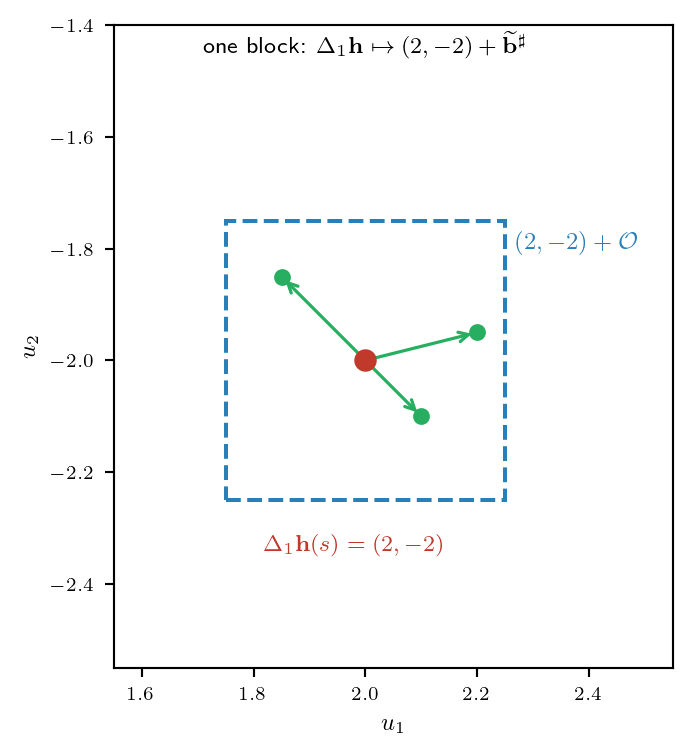
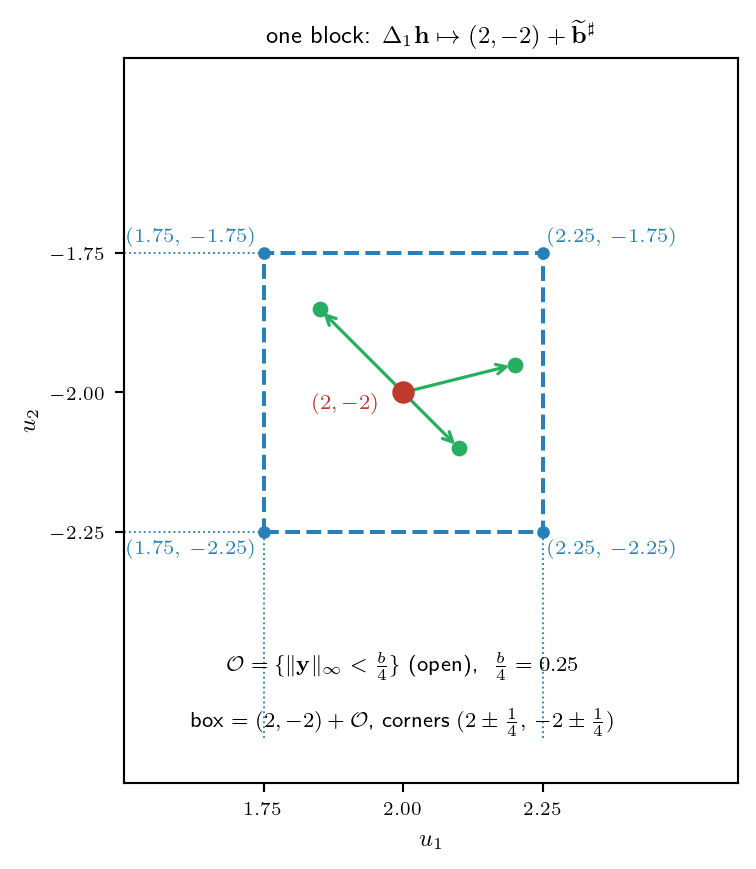
post(update): petite/K3 — M_0=4 못박기 + 한블록 그림에 꼭짓점·수식 명시
M_0=2C_{M²}/ε_F 숫자는 μ_0 필요하나 예제선 M_0=4(s가 들어가는 최소·경계),
L=⌈16·4+1⌉=65 정확. oneblock 그림: 네 꼭짓점 (2±1/4,-2±1/4), O 정의·값 라벨.

diff --git a/docs/Posts/260605_c4e5ad.html b/docs/Posts/260605_c4e5ad.html
@@ -235,7 +235,7 @@ window.Quarto = {
 <p><strong>(1) 높이차 <span class="math inline">\(\Delta_1\mathbf{h}\)</span></strong> — <span class="math inline">\(v_1\)</span>을 기준으로 뺀 anchored 높이차: <span class="math display">\[\Delta_1\mathbf{h}(s) = \bigl(h(v_2) - h(v_1),\ h(v_3) - h(v_1)\bigr) = (7-5,\ 3-5) = (2, -2).\]</span></p>
 <p><strong>(2) 현재 노드 <span class="math inline">\(X\)</span></strong> — walker가 지금 있는 노드 (예: <span class="math inline">\(v_1\)</span>).</p>
 <p>→ 우리 예제의 상태는 <span class="math inline">\(s = \bigl((2,-2),\ v_1\bigr)\)</span>이다. (<span class="math inline">\(\Delta_1\mathbf{h}\)</span>가 절대높이 <span class="math inline">\(5,7,3\)</span>을 안 기억해도 되는 이유: 눈은 모든 노드에 똑같이 와 닿는 게 아니라 <strong>높이차</strong>만 동역학에 들어오기 때문. 높이를 통째로 <span class="math inline">\(+10\)</span> 해도 같은 상태.)</p>
-<div id="fafc6365" class="cell" data-execution_count="1">
+<div id="fc40f962" class="cell" data-execution_count="1">
 <div class="cell-output cell-output-display">
 <div>
 <figure class="figure">
@@ -254,7 +254,8 @@ window.Quarto = {
 </blockquote>
 <p><strong>먼저 <span class="math inline">\(s\)</span>가 어디의 원소인지</strong> 못박자. 라운드 스켈레톤의 상태공간은 <span class="math display">\[\bar{\mathcal{X}} \;=\; \mathbb{R}^{n-1} \times V \;=\; \mathbb{R}^2 \times \{v_1, v_2, v_3\},\]</span> 즉 상태는 <span class="math inline">\(s = (\Delta_1\mathbf{h},\ X)\)</span> — <strong>(높이차 벡터, 현재 노드)</strong> 쌍이다. 우리 예제에선 <span class="math display">\[s = \bigl((2,-2),\ v_1\bigr) \in \bar{\mathcal{X}}.\]</span></p>
 <p>후보 small set은 그 <span class="math inline">\(\bar{\mathcal{X}}\)</span> 안에서 <strong>높이차가 너무 벌어지지 않은 상태들의 부분집합</strong>: <span class="math display">\[C_0 \;:=\; \{\, s \in \bar{\mathcal{X}} : M(s) \leq M_0 \,\}, \qquad M(s) := (\text{최대 높이}) - (\text{최소 높이}).\]</span> 여기서 <span class="math inline">\(M\)</span>은 <strong><span class="math inline">\(\Delta_1\mathbf{h}\)</span> 좌표에만</strong> 의존한다 — 현재 노드 <span class="math inline">\(X\)</span>와 무관하고, 절대높이를 통째로 평행이동해도 안 변한다. 구체적으로 <span class="math inline">\(\Delta_1\mathbf{h}=(u_1,u_2)\)</span>이면 anchored 높이가 <span class="math inline">\((0, u_1, u_2)\)</span>라 <span class="math display">\[M(s) = \max(0, u_1, u_2) - \min(0, u_1, u_2).\]</span> 따라서 <span class="math inline">\(C_0\)</span>는 <span class="math inline">\(\bar{\mathcal{X}}\)</span>에서 “<span class="math inline">\(\Delta_1\mathbf{h}\)</span>가 어떤 띠(band) 안, 노드 <span class="math inline">\(X\)</span>는 자유”인 집합: <span class="math inline">\(C_0 = \{(u_1,u_2) : \max(0,u_1,u_2)-\min(0,u_1,u_2)\leq M_0\} \times V\)</span>.</p>
-<p>우리 예제: <span class="math inline">\(\Delta_1\mathbf{h}=(2,-2)\)</span>라 anchored 높이 <span class="math inline">\((0, 2, -2)\)</span>, <span class="math display">\[M(s) = \max(0,2,-2) - \min(0,2,-2) = 2 - (-2) = 4\]</span> (절대높이로 봐도 <span class="math inline">\(\max(5,7,3)-\min(5,7,3) = 7-3 = 4\)</span>, 같은 값). <span class="math inline">\(M_0\)</span>은 Foster 문턱 <span class="math inline">\(2C_{M^2}/\varepsilon_F\)</span>로 큰 상수라, 우리 <span class="math inline">\(s\)</span>는 <span class="math inline">\(M(s)=4 \leq M_0\)</span> — <strong><span class="math inline">\(s \in C_0\)</span>.</strong> 좋다, 출발점 확보.</p>
+<p>우리 예제: <span class="math inline">\(\Delta_1\mathbf{h}=(2,-2)\)</span>라 anchored 높이 <span class="math inline">\((0, 2, -2)\)</span>, <span class="math display">\[M(s) = \max(0,2,-2) - \min(0,2,-2) = 2 - (-2) = 4\]</span> (절대높이로 봐도 <span class="math inline">\(\max(5,7,3)-\min(5,7,3) = 7-3 = 4\)</span>, 같은 값).</p>
+<p><span class="math inline">\(M_0\)</span>의 정체는 Foster 문턱 <span class="math inline">\(M_0 = 2C_{M^2}/\varepsilon_F\)</span> (drift 보조정리에서 옴)인데, 그 <strong>숫자</strong>는 snowfall 분포 <span class="math inline">\(\boldsymbol{\mu}_0\)</span>와 drift 상수가 있어야 나온다. 구성은 <span class="math inline">\(M_0\)</span>이 <strong>어떤 고정 상수든</strong> 동일하게 작동하므로, 이 예제에선 구체적으로 <span class="math inline">\(M_0 = 4\)</span> (즉 <span class="math inline">\(C_0 = \{M \leq 4\}\)</span>)로 잡는다. 이는 우리 <span class="math inline">\(s\)</span> (range <span class="math inline">\(4\)</span>)가 <span class="math inline">\(C_0\)</span>에 들어가는 <strong>최소값</strong>이라 — <span class="math inline">\(s\)</span>는 <span class="math inline">\(C_0\)</span>의 <strong>경계</strong>(가장 불균형한 worst case)에 놓인다. 그래서 falls가 높이차를 가장 크게 끌어내려야 하는 대표 케이스고, 출발점으로 딱 좋다. <span class="math inline">\(M(s)=4 \leq 4\)</span> → <strong><span class="math inline">\(s \in C_0\)</span>.</strong></p>
 <hr>
 </section>
 <section id="겨냥-영역-셋-mathcalo-supset-mathcalodagger-supset-u" class="level2">
@@ -277,20 +278,20 @@ window.Quarto = {
 <li><span class="math inline">\(b^{\sharp} = (0.5,\ 0.9,\ 0.3)\)</span> → 증분 <span class="math inline">\((0.4,\ -0.2)\)</span>. 첫 성분 <span class="math inline">\(0.4 &gt; \tfrac14\)</span> 라 <span class="math inline">\(\mathcal{O}\)</span> <strong>밖</strong> — 가능은 하지만 밀도 보장 안 됨.</li>
 </ul>
 <p>왜 <span class="math inline">\(\mathcal{O}\)</span> 위에서만 밀도 <span class="math inline">\(\geq b^{1-n}/2 = \tfrac12\)</span>인가 (pushforward 보조정리): 증분 밀도는 <span class="math inline">\(b^{\sharp}_1\)</span>을 적분해 없앤 것인데, 모든 <span class="math inline">\(|b^{\sharp}_i - b^{\sharp}_1| &lt; b/4\)</span>일 때 적분 구간이 길이 <span class="math inline">\(\geq b/2\)</span>를 품어 밀도가 <span class="math inline">\(\geq b^{1-n}/2\)</span>로 떨어진다 (<span class="math inline">\(b{=}1, n{=}3\)</span>이라 <span class="math inline">\(\tfrac12\)</span>). 그 조건이 정확히 <span class="math inline">\(\widetilde{\mathbf{b}}^{\sharp} \in \mathcal{O}\)</span>.</p>
-<div id="1a9d839e" class="cell" data-execution_count="2">
+<div id="a5261335" class="cell" data-execution_count="2">
 <div class="cell-output cell-output-display">
 <div>
 <figure class="figure">
-<p><img src="260605_유진_HST_petite_smallset_K3_files/figure-html/cell-3-output-1.png" width="346" height="377" class="figure-img"></p>
+<p><img src="260605_유진_HST_petite_smallset_K3_files/figure-html/cell-3-output-1.png" width="378" height="435" class="figure-img"></p>
 </figure>
 </div>
 </div>
 </div>
 <p>한 블록은 <span class="math inline">\(\Delta_1\mathbf{h}\)</span>를 <span class="math inline">\(\mathcal{O}\)</span>만큼(최대 한 좌표 <span class="math inline">\(\pm\tfrac14\)</span>) 살짝 민다. 이 증분이 <span class="math inline">\(L=65\)</span>블록 누적되면 (Minkowski 합 <span class="math inline">\(L\cdot\mathcal{O}\)</span>, 최대 <span class="math inline">\(\pm 16.25\)</span>) <span class="math inline">\((2,-2)\)</span>를 원점의 <span class="math inline">\(U\)</span>까지 끌어내릴 수 있다.</p>
-<p><strong>② <span class="math inline">\(L\cdot\mathcal{O}\)</span> — <span class="math inline">\(L\)</span>블록이 도달하는 영역 (Minkowski 합).</strong> <span class="math display">\[L := \Bigl\lceil \tfrac{16M_0}{b} + 1 \Bigr\rceil.\]</span> 우리 예제는 <span class="math inline">\(M(s)=4 \leq M_0\)</span>이라 <span class="math inline">\(M_0 \geq 4\)</span>, 따라서 <span class="math inline">\(L \geq \lceil 65 \rceil = 65\)</span>. 그러면 <span class="math inline">\(L\cdot\mathcal{O} = (-\tfrac{L}{4}, \tfrac{L}{4})^2 \supseteq (-16.25, 16.25)^2\)</span> — <strong>출발 <span class="math inline">\(\Delta_1\mathbf{h}(s)=(2,-2)\)</span>를 원점 근처로 끌어내릴 만큼 넉넉</strong>하다. (falls가 채울 변위 <span class="math inline">\(y = u - \Delta_1\mathbf{h}(s) - \mathbf{r} \approx (0,0)-(2,-2) = (-2,2)\)</span>가 <span class="math inline">\(\pm 16\)</span> 안에 푹 들어옴.)</p>
+<p><strong>② <span class="math inline">\(L\cdot\mathcal{O}\)</span> — <span class="math inline">\(L\)</span>블록이 도달하는 영역 (Minkowski 합).</strong> <span class="math display">\[L := \Bigl\lceil \tfrac{16M_0}{b} + 1 \Bigr\rceil.\]</span> <span class="math inline">\(M_0 = 4\)</span>, <span class="math inline">\(b = 1\)</span>이라 <span class="math inline">\(L = \lceil 16\cdot 4 + 1 \rceil = 65\)</span>. 그러면 <span class="math inline">\(L\cdot\mathcal{O} = (-\tfrac{L}{4}, \tfrac{L}{4})^2 = (-16.25, 16.25)^2\)</span> — <strong>출발 <span class="math inline">\(\Delta_1\mathbf{h}(s)=(2,-2)\)</span>를 원점 근처로 끌어내릴 만큼 넉넉</strong>하다. (falls가 채울 변위 <span class="math inline">\(y = u - \Delta_1\mathbf{h}(s) - \mathbf{r} \approx (0,0)-(2,-2) = (-2,2)\)</span>가 <span class="math inline">\(\pm 16\)</span> 안에 푹 들어옴.)</p>
 <p><strong>③ <span class="math inline">\(\mathcal{O}^\dagger\)</span> — 더 빡빡한 안쪽 박스.</strong> <span class="math display">\[\mathcal{O}^\dagger := \{\,\|\mathbf{y}\|_\infty &lt; b/16\,\} = (-\tfrac{1}{16}, \tfrac{1}{16})^2.\]</span> chamber가 들어앉을 여유 공간 (transport 후에도 안 튀어나가게 <span class="math inline">\(\mathcal{O}\)</span>보다 안쪽).</p>
 <p><strong>④ <span class="math inline">\(U\)</span> — 실제 목표 chamber.</strong> <span class="math inline">\(\mathcal{O}^\dagger\)</span> 안의 작은 <span class="math inline">\(\ell^\infty\)</span>-공인데, <strong>final-equality 초평면을 피해서</strong> 잡는다. anchored 전체높이 <span class="math inline">\(\widetilde{u} = (0, u_1, u_2)\)</span> (여기 <span class="math inline">\(u=(u_1,u_2)\in U\)</span>)의 세 등호면 <span class="math display">\[\{u_1 = 0\},\quad \{u_2 = 0\},\quad \{u_1 = u_2\}\]</span> 위에선 fall이 목표를 robust하게 못 맞힌다 (퇴화 비교). 그래서 이 셋에서 떨어진 곳에 중심을 둔다: <span class="math display">\[\text{중심} = \tfrac{b}{128n}(1, 2) = \bigl(\tfrac{1}{384}, \tfrac{1}{192}\bigr) \approx (0.0026,\ 0.0052), \qquad \text{반경 } r_U = \tfrac{1}{1536}.\]</span> 이 <span class="math inline">\(U\)</span>는 세 초평면에서 최소 <span class="math inline">\(\kappa_U = \tfrac{1}{768} \approx 0.0013\)</span> 떨어져 있다 (<span class="math inline">\((\ast)\)</span> 조건). 최종 기준측도가 바로 이 <span class="math inline">\(U\)</span> 위의 균등측도: <span class="math inline">\(\nu = \mathrm{Unif}(U)\otimes\delta_{v_3}\)</span>.</p>
-<div id="bbe4f1ac" class="cell" data-execution_count="3">
+<div id="bb6bf1fe" class="cell" data-execution_count="3">
 <div class="cell-output cell-output-display">
 <div>
 <figure class="figure">
